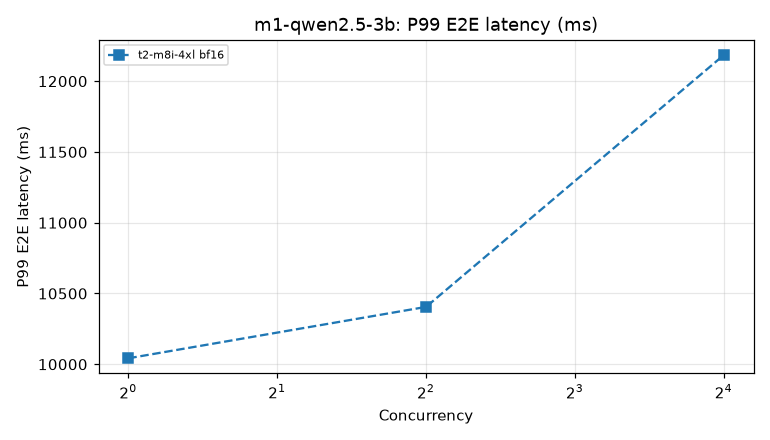
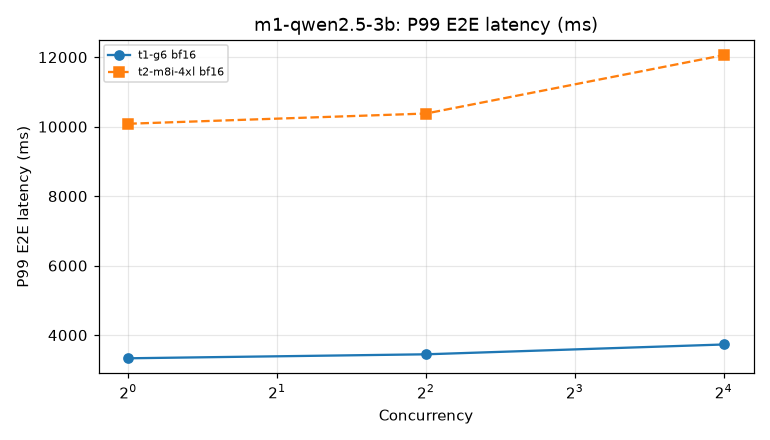
Second smoke run: T1 g6.2xlarge Spot vs T2 m8i.4xlarge; fixes from it
- a stopped On-Demand instance is replaced when the run asks for Spot (T2 was restarted On-Demand)
- aggregate_level waits for the CloudWatch agent's publish delay before reading resource metrics
  (a 47 s level had none; a 525 s level on the same host did)
- capacity-equivalence vCPU counts come from the instance catalog (literal table missed g6.2xlarge)
- sample report with both targets

diff --git a/lambdas/aggregate.py b/lambdas/aggregate.py
@@ -3,6 +3,8 @@
 from __future__ import annotations
 
 import datetime as dt
+import os
+import time
 from typing import Any
 
 from bench import metrics
@@ -10,6 +12,9 @@ from lambdas import common
 
 CW_METRICS = (("cpu_usage_active", "cpu"), ("mem_used_percent", "mem"), ("nvidia_smi_utilization_gpu", "gpu"),
               ("nvidia_smi_memory_used", "gpu_mem"), ("nvidia_smi_power_draw", "gpu_power"))
+def _publish_delay_s() -> float:
+    """Agent force-flush interval (60 s) plus its publish jitter (up to ~60 s); 0 in tests."""
+    return float(os.environ.get("AGENT_PUBLISH_DELAY_S", "130"))
 
 
 def level_name(lvl: dict) -> str:
@@ -66,6 +71,13 @@ def aggregate_level(event: dict, context: Any = None) -> dict:
         end = max(int(r["wall_send_ns"]) + int(r["send_to_end_ns"]) for r in recs)
         summary["window_wall_ns"] = [start, end]
         try:
+            # The CloudWatch agent flushes every 60 s with up to ~60 s jitter; a short level
+            # queried right after its last request finds nothing (seen 2026-11-09: a 47 s level
+            # had `resources: {}` while a 525 s one on the same host had data).
+            delay = _publish_delay_s()
+            wait = delay - (time.time() - end / 1e9)
+            if wait > 0:
+                time.sleep(min(wait, delay))
             summary["resources"] = resources(lvl["target_id"], start, end)
         except Exception as e:  # noqa: BLE001 - resource metrics are context, not a reason to fail the level
             summary["resources_error"] = str(e)[:300]

diff --git a/bench/report.py b/bench/report.py
@@ -23,8 +23,13 @@ from bench.cellspec import cell_key
 from bench.config import ModelSpec, ResolvedCell, RunConfig, load_models, load_targets
 
 ROOT = Path(__file__).resolve().parents[1]
-INSTANCE_VCPUS = {"g6.xlarge": 4, "g5.xlarge": 4, "m8i.4xlarge": 16, "c8i.4xlarge": 16, "m8i.8xlarge": 32,
-                  "m7i.4xlarge": 16}
+def _vcpus(instance_type: str) -> int:
+    """From the instance catalog; a literal table here missed g6.2xlarge on 2026-11-09 and the
+    capacity-equivalence column showed 0 G vCPUs."""
+    s = pairing.spec(instance_type)
+    return int(s["vcpus"]) if s else 0
+
+
 SLA_PRESETS = {"inline_strict": {"p99_e2e_ms": 250.0}, "inline_standard": {"p99_e2e_ms": 1000.0},
                "bulk": {"p99_e2e_ms": 30000.0}}
 TRANSFER = ("Speed results transfer to fine-tuned models of the same architecture, size and precision; "
@@ -386,8 +391,7 @@ def analyze(rows: list[dict], run: RunConfig) -> dict:
                     continue
                 eq = cost.capacity_equivalence(
                     gpu_throughput=_throughput(best_gpu), cpu_throughput=_throughput(r),
-                    cpu_vcpus=INSTANCE_VCPUS.get(r["instance_type"], 0),
-                    gpu_vcpus=INSTANCE_VCPUS.get(best_gpu["instance_type"], 0),
+                    cpu_vcpus=_vcpus(r["instance_type"]), gpu_vcpus=_vcpus(best_gpu["instance_type"]),
                     cpu_price=r["usd_per_hour"], gpu_price=best_gpu["usd_per_hour"])
                 if eq is None:
                     continue

diff --git a/lambdas/target_control.py b/lambdas/target_control.py
@@ -224,7 +224,9 @@ def ensure_running(event: dict, context: Any = None) -> dict:
     acceptable = {t for t in (requested_type, *(event.get("alternates") or [])) if t}
     inst = find_instance(tid)
     if inst is not None and not event.get("keep_lifecycle"):
-        wrong_market = inst["State"]["Name"] in ("running", "pending") and lifecycle(inst) != purchase.get("type", "spot")
+        # A stopped On-Demand instance counts as the wrong market for a Spot run too: restarting it
+        # would bill On-Demand for a run that asked for Spot (seen 2026-11-09).
+        wrong_market = lifecycle(inst) != purchase.get("type", "spot")
         wrong_type = bool(acceptable) and inst["InstanceType"] not in acceptable
         if wrong_market or wrong_type:
             # The run asks for another market or instance type than the instance left by an earlier

diff --git a/tests/test_lambdas.py b/tests/test_lambdas.py
@@ -35,6 +35,7 @@ def aws(monkeypatch):
     monkeypatch.setenv("AWS_SECRET_ACCESS_KEY", "testing")
     monkeypatch.setenv("BENCH_BUCKET", BUCKET)
     monkeypatch.setenv("BENCH_TABLE", "amx-gpu-bench")
+    monkeypatch.setenv("AGENT_PUBLISH_DELAY_S", "0")       # no CloudWatch agent to wait for
     with moto.mock_aws():
         from lambdas import common
 

diff --git a/reports/sample/summary.md b/reports/sample/summary.md
@@ -1,4 +1,4 @@
-# Benchmark report: smoke-m1-t1-t2 (smoke-m1-t1-t2-20261109T161710Z)
+# Benchmark report: smoke-m1-t1-t2 (smoke-m1-t1-t2-20261109T205743Z)
 
 > **SMOKE RUN.** Fewer requests and repeats than the methodology defaults. Use these numbers to check the harness, not to decide.
 
@@ -8,11 +8,20 @@ Suite **standard**, region us-east-1 (use1-az1). Prices are On-Demand from the A
 
 | Target | Instance | Engine | Precision | C | E2E P1/P50/P99 ms | TTFT P1/P50/P99 ms | TPOT P50 ms | Prefill tok/s P50 | Agg tok/s | req/s | err % | $/hr | $/1M tok | AMX | Q delta | SLA |
 |---|---|---|---|---|---|---|---|---|---|---|---|---|---|---|---|---|
-| t2-m8i-4xl | m8i.4xlarge | vllm | bf16 | 1 | 9,983/10,007/10,042 | 152/166/174 | 77.5 | 779 | 13 | 0.10 | 0.00 | 0.847 | 18.39 | VERIFIED | - | meets |
-| t2-m8i-4xl | m8i.4xlarge | vllm | bf16 | 4 | 10,196/10,336/10,405 | 230/324/485 | 78.2 | 401 | 50 | 0.38 | 0.00 | 0.847 | 4.75 | VERIFIED | - | meets |
-| t2-m8i-4xl | m8i.4xlarge | vllm | bf16 | 16 | 10,114/12,121/12,184 | 163/1,563/1,616 | 83.2 | 83 | 169 | 0.91 | 0.00 | 0.847 | 1.39 | VERIFIED | - | **cheapest CPU meeting SLA** |
+| t1-g6 | g6.2xlarge | vllm | bf16 | 1 | 3,316/3,326/3,333 | 40/42/43 | 25.9 | 3,094 | 38 | 0.30 | 0.00 | 0.978 | 7.06 | n/a | - | meets |
+| t1-g6 | g6.2xlarge | vllm | bf16 | 4 | 3,393/3,441/3,448 | 44/96/100 | 26.3 | 1,356 | 149 | 1.09 | 0.00 | 0.978 | 1.82 | n/a | - | meets |
+| t1-g6 | g6.2xlarge | vllm | bf16 | 16 | 3,386/3,724/3,730 | 46/282/289 | 27.1 | 460 | 551 | 2.97 | 0.00 | 0.978 | 0.49 | n/a | - | **best GPU** |
+| t2-m8i-4xl | m8i.4xlarge | vllm | bf16 | 1 | 9,876/9,925/10,083 | 141/149/162 | 77.0 | 871 | 13 | 0.10 | 0.00 | 0.847 | 18.28 | VERIFIED | 0.216 | meets |
+| t2-m8i-4xl | m8i.4xlarge | vllm | bf16 | 4 | 9,972/10,260/10,377 | 153/455/510 | 77.1 | 285 | 50 | 0.37 | 0.00 | 0.847 | 4.72 | VERIFIED | 0.216 | meets |
+| t2-m8i-4xl | m8i.4xlarge | vllm | bf16 | 16 | 9,985/11,953/12,058 | 189/1,445/1,448 | 82.7 | 90 | 171 | 0.92 | 0.00 | 0.847 | 1.37 | VERIFIED | 0.216 | **cheapest CPU meeting SLA** |
 
-_no GPU row meets the SLA; capacity equivalence not computed_
+Capacity equivalence (CPU instances needed to match the best GPU row's SLA-meeting throughput):
+
+| CPU instance | Engine | Precision | C | Instances per GPU | Standard vCPUs | G vCPUs (GPU) | Hourly cost ratio | Within limit |
+|---|---|---|---|---|---|---|---|---|
+| m8i.4xlarge | vllm | bf16 | 1 | 43 | 688 | 8 | 37.24 | no (Conditional) |
+| m8i.4xlarge | vllm | bf16 | 16 | 4 | 64 | 8 | 3.46 | yes |
+| m8i.4xlarge | vllm | bf16 | 4 | 12 | 192 | 8 | 10.39 | no (Conditional) |
 
 ## Charts
 
@@ -26,36 +35,19 @@ _no GPU row meets the SLA; capacity equivalence not computed_
 ## Price source
 
 - g5.xlarge: $1.006/h, SKU 79BRGEEZC6TARVWJ, effective 2026-11-01T00:00:00Z, price list arn:aws:pricing:::price-list/aws/AmazonEC2/USD/20261107002852/us-east-1 (published 2026-11-07T00:28:52Z)
+- g6.2xlarge: $0.9776/h, SKU XCA3J9EEM739PU6M, effective 2026-11-01T00:00:00Z, price list arn:aws:pricing:::price-list/aws/AmazonEC2/USD/20261107002852/us-east-1 (published 2026-11-07T00:28:52Z)
 - g6.xlarge: $0.8048/h, SKU TPKUC6XYSUQ3VFK2, effective 2026-11-01T00:00:00Z, price list arn:aws:pricing:::price-list/aws/AmazonEC2/USD/20261107002852/us-east-1 (published 2026-11-07T00:28:52Z)
 - m8i.4xlarge: $0.84672/h, SKU E7HS8NYMC36MBM9V, effective 2026-11-01T00:00:00Z, price list arn:aws:pricing:::price-list/aws/AmazonEC2/USD/20261107002852/us-east-1 (published 2026-11-07T00:28:52Z)
 
 ## Capacity errors seen while starting instances
 
-- t1-g6: 2026-11-09T16:17:32Z InsufficientInstanceCapacity (template, None)
-- t1-g6: 2026-11-09T16:18:41Z InsufficientInstanceCapacity (template, None)
-- t1-g6: 2026-11-09T16:19:55Z InsufficientInstanceCapacity (template, None)
-- t1-g6: 2026-11-09T16:21:05Z InsufficientInstanceCapacity (g5.xlarge, None)
-- t1-g6: 2026-11-09T16:22:19Z InsufficientInstanceCapacity (template, None)
-- t1-g6: 2026-11-09T16:23:31Z InsufficientInstanceCapacity (g5.xlarge, None)
-- t1-g6: 2026-11-09T16:24:45Z InsufficientInstanceCapacity (template, None)
-- t1-g6: 2026-11-09T16:25:56Z InsufficientInstanceCapacity (g5.xlarge, None)
-- t1-g6: 2026-11-09T16:27:11Z InsufficientInstanceCapacity (template, None)
-- t1-g6: 2026-11-09T16:28:23Z InsufficientInstanceCapacity (g5.xlarge, None)
-- t1-g6: 2026-11-09T16:29:36Z InsufficientInstanceCapacity (template, None)
-- t1-g6: 2026-11-09T16:30:47Z InsufficientInstanceCapacity (g5.xlarge, None)
-- t1-g6: 2026-11-09T16:31:59Z InsufficientInstanceCapacity (template, None)
-- t1-g6: 2026-11-09T16:33:06Z InsufficientInstanceCapacity (g5.xlarge, None)
-- t1-g6: 2026-11-09T16:34:17Z InsufficientInstanceCapacity (template, None)
-- t1-g6: 2026-11-09T16:35:34Z InsufficientInstanceCapacity (g5.xlarge, None)
-- t1-g6: 2026-11-09T16:36:49Z InsufficientInstanceCapacity (template, None)
-- t1-g6: 2026-11-09T16:38:00Z InsufficientInstanceCapacity (g5.xlarge, None)
-- t1-g6: 2026-11-09T16:39:16Z InsufficientInstanceCapacity (template, None)
-- t1-g6: 2026-11-09T16:40:31Z InsufficientInstanceCapacity (g5.xlarge, None)
-- t1-g6: 2026-11-09T16:41:48Z InsufficientInstanceCapacity (template, None)
-- t1-g6: 2026-11-09T16:43:00Z InsufficientInstanceCapacity (g5.xlarge, None)
-- t1-g6: 2026-11-09T16:44:10Z InsufficientInstanceCapacity (template, None)
-- t1-g6: 2026-11-09T16:45:26Z InsufficientInstanceCapacity (g5.xlarge, None)
-- t1-g6: 2026-11-09T16:46:38Z InsufficientInstanceCapacity (template, None)
+- t1-g6: 2026-11-09T20:58:05Z InsufficientInstanceCapacity (g6.xlarge, None)
+- t1-g6: 2026-11-09T20:59:14Z InsufficientInstanceCapacity (g6.xlarge, None)
+- t1-g6: 2026-11-09T21:00:31Z InsufficientInstanceCapacity (g6.xlarge, None)
+- t1-g6: 2026-11-09T21:01:44Z InsufficientInstanceCapacity (g5.xlarge, None)
+- t1-g6: 2026-11-09T21:02:58Z InsufficientInstanceCapacity (g6.2xlarge, None)
+- t1-g6: 2026-11-09T21:04:14Z InsufficientInstanceCapacity (g6.xlarge, None)
+- t1-g6: 2026-11-09T21:05:24Z InsufficientInstanceCapacity (g5.xlarge, None)
 
 ## Warnings
 
@@ -64,7 +56,8 @@ _no GPU row meets the SLA; capacity equivalence not computed_
 
 ## Provenance
 
-- run hash 2ac2ba9116a0a31e0863c9227eac7534b573d77dee97a1619f7ccc288e455d22, models 0e7c5b311fde4429defd9403b108f1bd4539ab520b7f60aaf254930628f031a6, targets f062cab64b10cee1db8cd8723dbabfc2925223ff4c560eef063459c58214ecda
-- harness commit 0958a9bbf8fc212fb67f1d58656e142453d3358e
+- run hash a298b2fdcc2fde08c5a6203834086ebcb1a05d79ce8e417201bfc4470429d592, models 0e7c5b311fde4429defd9403b108f1bd4539ab520b7f60aaf254930628f031a6, targets f062cab64b10cee1db8cd8723dbabfc2925223ff4c560eef063459c58214ecda
+- harness commit bcb23473c69abc40d7155385b49cf5e3a6dad754
 - AMIs {"t1-g6": "ami-0fa51b517f148a6a4", "t2-m8i-4xl": "ami-07c1b6f58fb89ce9f"}
-- instances {"t2-m8i-4xl": ["i-0cba10f9497a00fd5"]}, market {"t2-m8i-4xl": "on-demand"} (requested on-demand); cost columns use On-Demand prices
+- instances {"t1-g6": ["i-0fc36ee7f7213317d"], "t2-m8i-4xl": ["i-0cba10f9497a00fd5"]}, market {"t1-g6": "spot", "t2-m8i-4xl": "on-demand"} (requested spot); cost columns use On-Demand prices
+- pairing t2-m8i-4xl (m8i.4xlarge) vs t1-g6 (g6.2xlarge): fair, GPU/CPU hourly price ratio 1.155
